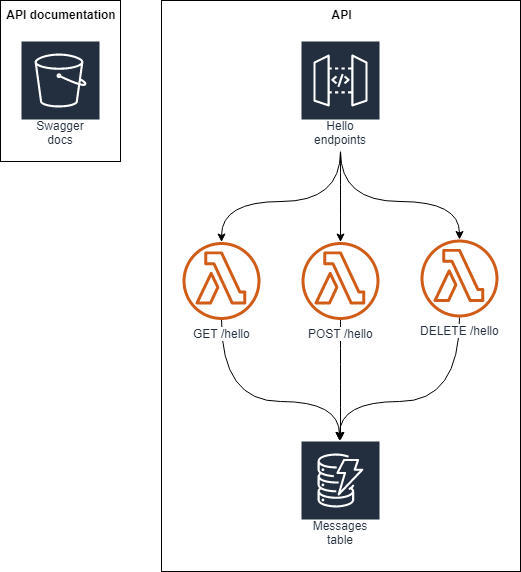
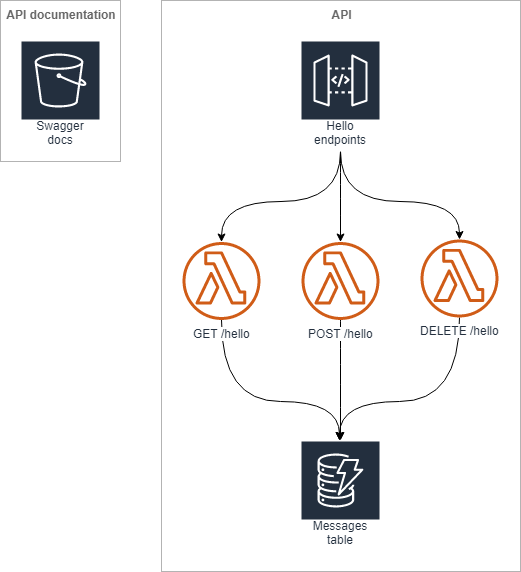
update arch diagram

diff --git a/README.md b/README.md
@@ -13,7 +13,7 @@ A serverless api typescript starter for use as a template.
 # Architecture
 
 <p align="center">
-  <img src="docs/architecture/drawio-architecture.png"/>
+  <img max-width="50%" src="docs/architecture/drawio-architecture.png"/>
 </p>
 <!-- badge icons -->
 
